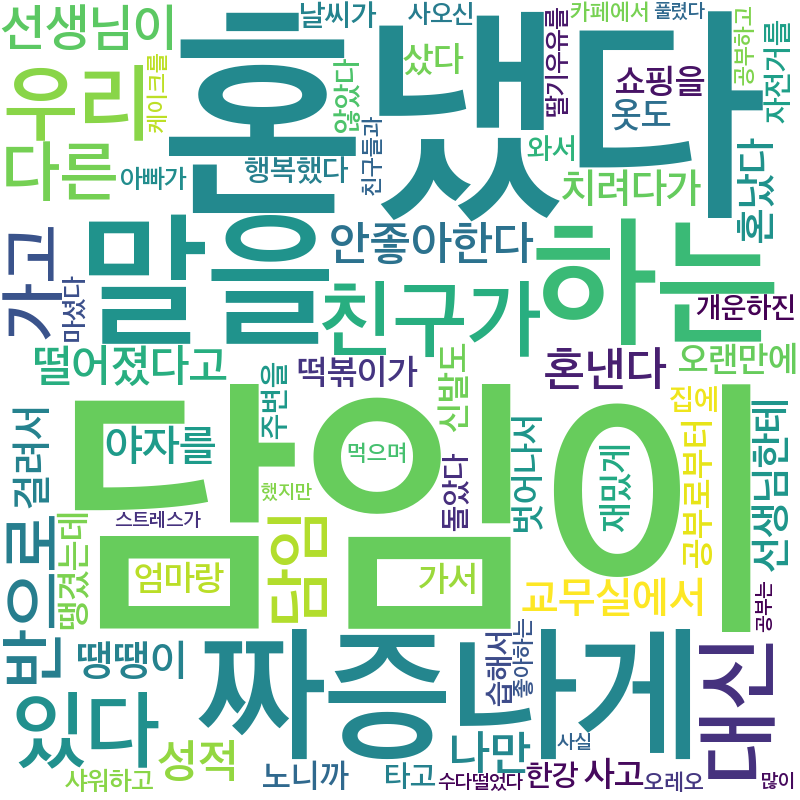
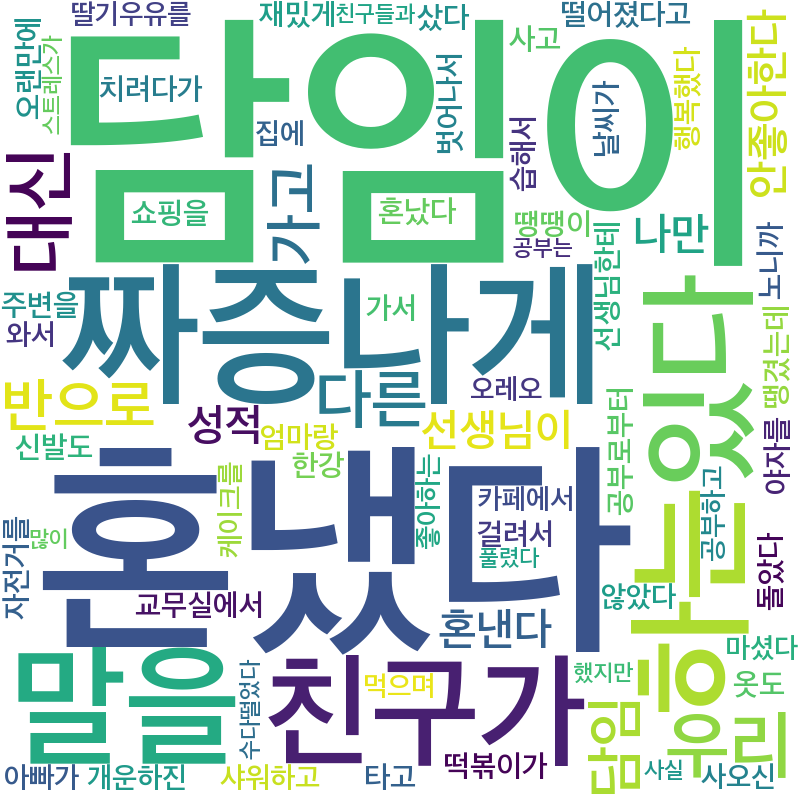
[분석] 감정 개수, 긍정/부정 비율 그래프(Chart.js) 적용

diff --git a/moodtracker/templates/moodtracker/moodtracker_analysis.html b/moodtracker/templates/moodtracker/moodtracker_analysis.html
@@ -31,7 +31,7 @@
     padding: 20px 0 0 20px;
 }
 .word_cloud {
-    height: 500px;
+    height: auto;
     border-top: 10px solid #ccc;
     border-bottom: 10px solid #ccc;
     padding: 20px 0 0 20px;
@@ -46,8 +46,14 @@
     color: #cc0;
     font-style: italic;
 }
+
 </style>
 {% endblock %}
+
+{% block script %}
+    
+{% endblock %}
+
 
 {% block content %}
 <div class="container">
@@ -63,8 +69,33 @@
                 부정: 2
                 <br>
                 비율: {{pos_per}}% : {{neg_per}}
-                
             </p>
+            <div>
+                <canvas id="pos_neg_barChart" width="300"></canvas>
+                <script>
+                    var ctx = document.getElementById('pos_neg_barChart');
+                    var pos_neg_barChart = new Chart(ctx, {
+                        type: 'pie',
+                        data: {
+                            labels: ['', ''],
+                            datasets: [{
+                                label: '',
+                                data: ["{{neg_per}}", "{{pos_per}}"],
+                                backgroundColor: [
+                                    'rgba(255, 123, 85, 1)',
+                                    'rgba(57, 215, 208, 1)'
+                                ],
+                            }]
+                        },
+                        options: {
+                            legend:{
+                                display: false
+                            },
+                            responsive: false
+                        }
+                    });
+                </script>
+            </div>
         </div>
     </div>
     <!--
@@ -77,11 +108,47 @@
     -->
     <div class="row">
         <div class="mood_freqent col-md-7">
-            HAPPY : {{happy}} <br>
-            SAD : {{sad}} <br>
-            CALM : {{calm}} <br>
-            ANGRY : {{angry}} <br>
-            SOSO : {{soso}}
+            <div>
+                HAPPY : {{happy}}, SAD : {{sad}}, CALM : {{calm}}, ANGRY : {{angry}}, SOSO : {{soso}}
+            </div>
+            <div>
+                <canvas id="mood_barChart" height="300"></canvas>
+                <script>
+                    var ctx = document.getElementById('mood_barChart');
+                    var mood_barChart = new Chart(ctx, {
+                        type: 'horizontalBar',
+                        data: {
+                            labels: ['', '', '', '', ''],
+                            datasets: [{
+                                label: '',
+                                data: ["{{happy}}", "{{sad}}", 2, "{{angry}}", "{{soso}}"],
+                                backgroundColor: [
+                                    'rgba(57, 215, 208, 1)',
+                                    'rgba(13, 207, 249, 1)',
+                                    'rgba(249, 155, 13, 1)',
+                                    'rgba(255, 123, 85, 1)',
+                                    'rgba(211, 145, 255, 1)'
+                                ]
+                            }]
+                        },
+                        options: {
+                            legend:{
+                                display: false 
+                            },
+                            indexAxis: 'y',
+                            responsive: false, 
+                            scales: {
+                                xAxes: [{
+                                    ticks: {
+                                        beginAtZero: true,
+                                        stepSize: 1
+                                    }
+                                }]
+                            }
+                        }
+                    });
+                </script>
+            </div>
         </div>
         <div class="word_cloud col-md-5">
             <h3>강미나님이 자주 쓰는 단어</h3>

diff --git a/templates/base.html b/templates/base.html
@@ -9,6 +9,9 @@
 
     <link rel="stylesheet" href="https://stackpath.bootstrapcdn.com/bootstrap/4.3.1/css/bootstrap.min.css">
 
+    <script type="text/javascript" src="https://cdnjs.cloudflare.com/ajax/libs/Chart.js/2.8.0/Chart.bundle.min.js"></script>
+    <script type="text/javascript" src="https://cdnjs.cloudflare.com/ajax/libs/Chart.js/2.8.0/Chart.min.js"></script>
+
     {% block extra-style %}{% endblock %}
 </head>
 

diff --git a/moodtracker/views.py b/moodtracker/views.py
@@ -27,7 +27,7 @@ def analysis(request):
     pos_per, neg_per = pos_neg_percent(moodtrackers) # 긍정 부정 개수 구하기 (날짜 조건 걸어야 함)
     happy, sad, calm, angry, soso = mood_num(moodtrackers) # 감정 개수 구하기
     create_wordcloud(moodtrackers) # 워드 클라우드 생성
-    wc = Wordcloud.objects.get(wc_image='wc_test.png')
+    wc = Wordcloud.objects.get(wc_image='wc_test.png') # 워드 클라우드 객체 가져오기 (username으로 받아와야 함)
 
     item = {
         'pos_per' : pos_per,
@@ -82,7 +82,7 @@ def mood_num(moodtrackers):
 # Analysis - 워드 클라우드 생성
 def create_wordcloud(moodtrackers):
     # 이전 워드클라우드 모델에서 삭제
-    instance = Wordcloud.objects.filter(username=moodtrackers[0].username)
+    instance = Wordcloud.objects.filter(username=moodtrackers[0].username) # 현재 사용자 받아오기로 변경해야 함
     instance.delete()
     
     content_text = ''
@@ -91,7 +91,6 @@ def create_wordcloud(moodtrackers):
 
     stopwords = ['나는', '나를', '내가', '너무', '없다', '정말', '것은', '있다.', '자꾸', '싶지', '않다', '같다', '싶다', '했다', '나왔다']
 
-    #wordcloud = WordCloud(font_path='fonts/AppleSDGothicNeoSB.ttf', background_color='white', stopwords=stopwords, width=800, height=800).generate_from_text(content_text)
     wordcloud = WordCloud(font_path='moodtracker/static/fonts/AppleSDGothicNeoSB.ttf', background_color='white', stopwords=stopwords, width=800, height=800).generate_from_text(content_text)
     wordcloud.to_file('media/wc_test.png') # 변수로 바꿔야 함
     '''

diff --git a/moodtracker/migrations/0005_auto_20200827_1725.py b/moodtracker/migrations/0005_auto_20200827_1725.py
@@ -1,0 +1,31 @@
+# Generated by Django 3.0.8 on 2020-08-27 17:25
+
+from django.conf import settings
+from django.db import migrations, models
+import django.db.models.deletion
+
+
+class Migration(migrations.Migration):
+
+    dependencies = [
+        migrations.swappable_dependency(settings.AUTH_USER_MODEL),
+        ('moodtracker', '0004_auto_20200826_2230'),
+    ]
+
+    operations = [
+        migrations.AlterField(
+            model_name='moodtracker',
+            name='username',
+            field=models.ForeignKey(blank=True, null=True, on_delete=django.db.models.deletion.CASCADE, to=settings.AUTH_USER_MODEL, verbose_name='USERNAME'),
+        ),
+        migrations.AlterField(
+            model_name='wordcloud',
+            name='username',
+            field=models.ForeignKey(blank=True, null=True, on_delete=django.db.models.deletion.CASCADE, to=settings.AUTH_USER_MODEL, verbose_name='USERNAME'),
+        ),
+        migrations.AlterField(
+            model_name='wordcloud',
+            name='wc_image',
+            field=models.ImageField(upload_to=''),
+        ),
+    ]

diff --git a/moodtracker/models.py b/moodtracker/models.py
@@ -2,7 +2,7 @@ from django.db import models
 from django.contrib.auth.models import User
 
 class MoodTracker(models.Model):
-    username = models.ForeignKey(User, on_delete=models.CASCADE) # User 모델과 연결
+    username = models.ForeignKey(User, on_delete=models.CASCADE, verbose_name='USERNAME', blank=True, null=True) # User 모델과 연결
     content = models.CharField(max_length=800) # 최대 800자
     pub_date = models.DateTimeField(auto_now=True)
     mood = models.CharField(max_length=15)
@@ -13,7 +13,7 @@ class MoodTracker(models.Model):
         return "%s - %s" % (self.username, self.pub_date) # 유저와 날짜로 구분
 
 class Wordcloud(models.Model):
-    username = models.ForeignKey(User, on_delete=models.CASCADE)
+    username = models.ForeignKey(User, on_delete=models.CASCADE, verbose_name='USERNAME', blank=True, null=True)
     wc_image = models.ImageField(upload_to='')
 
 
